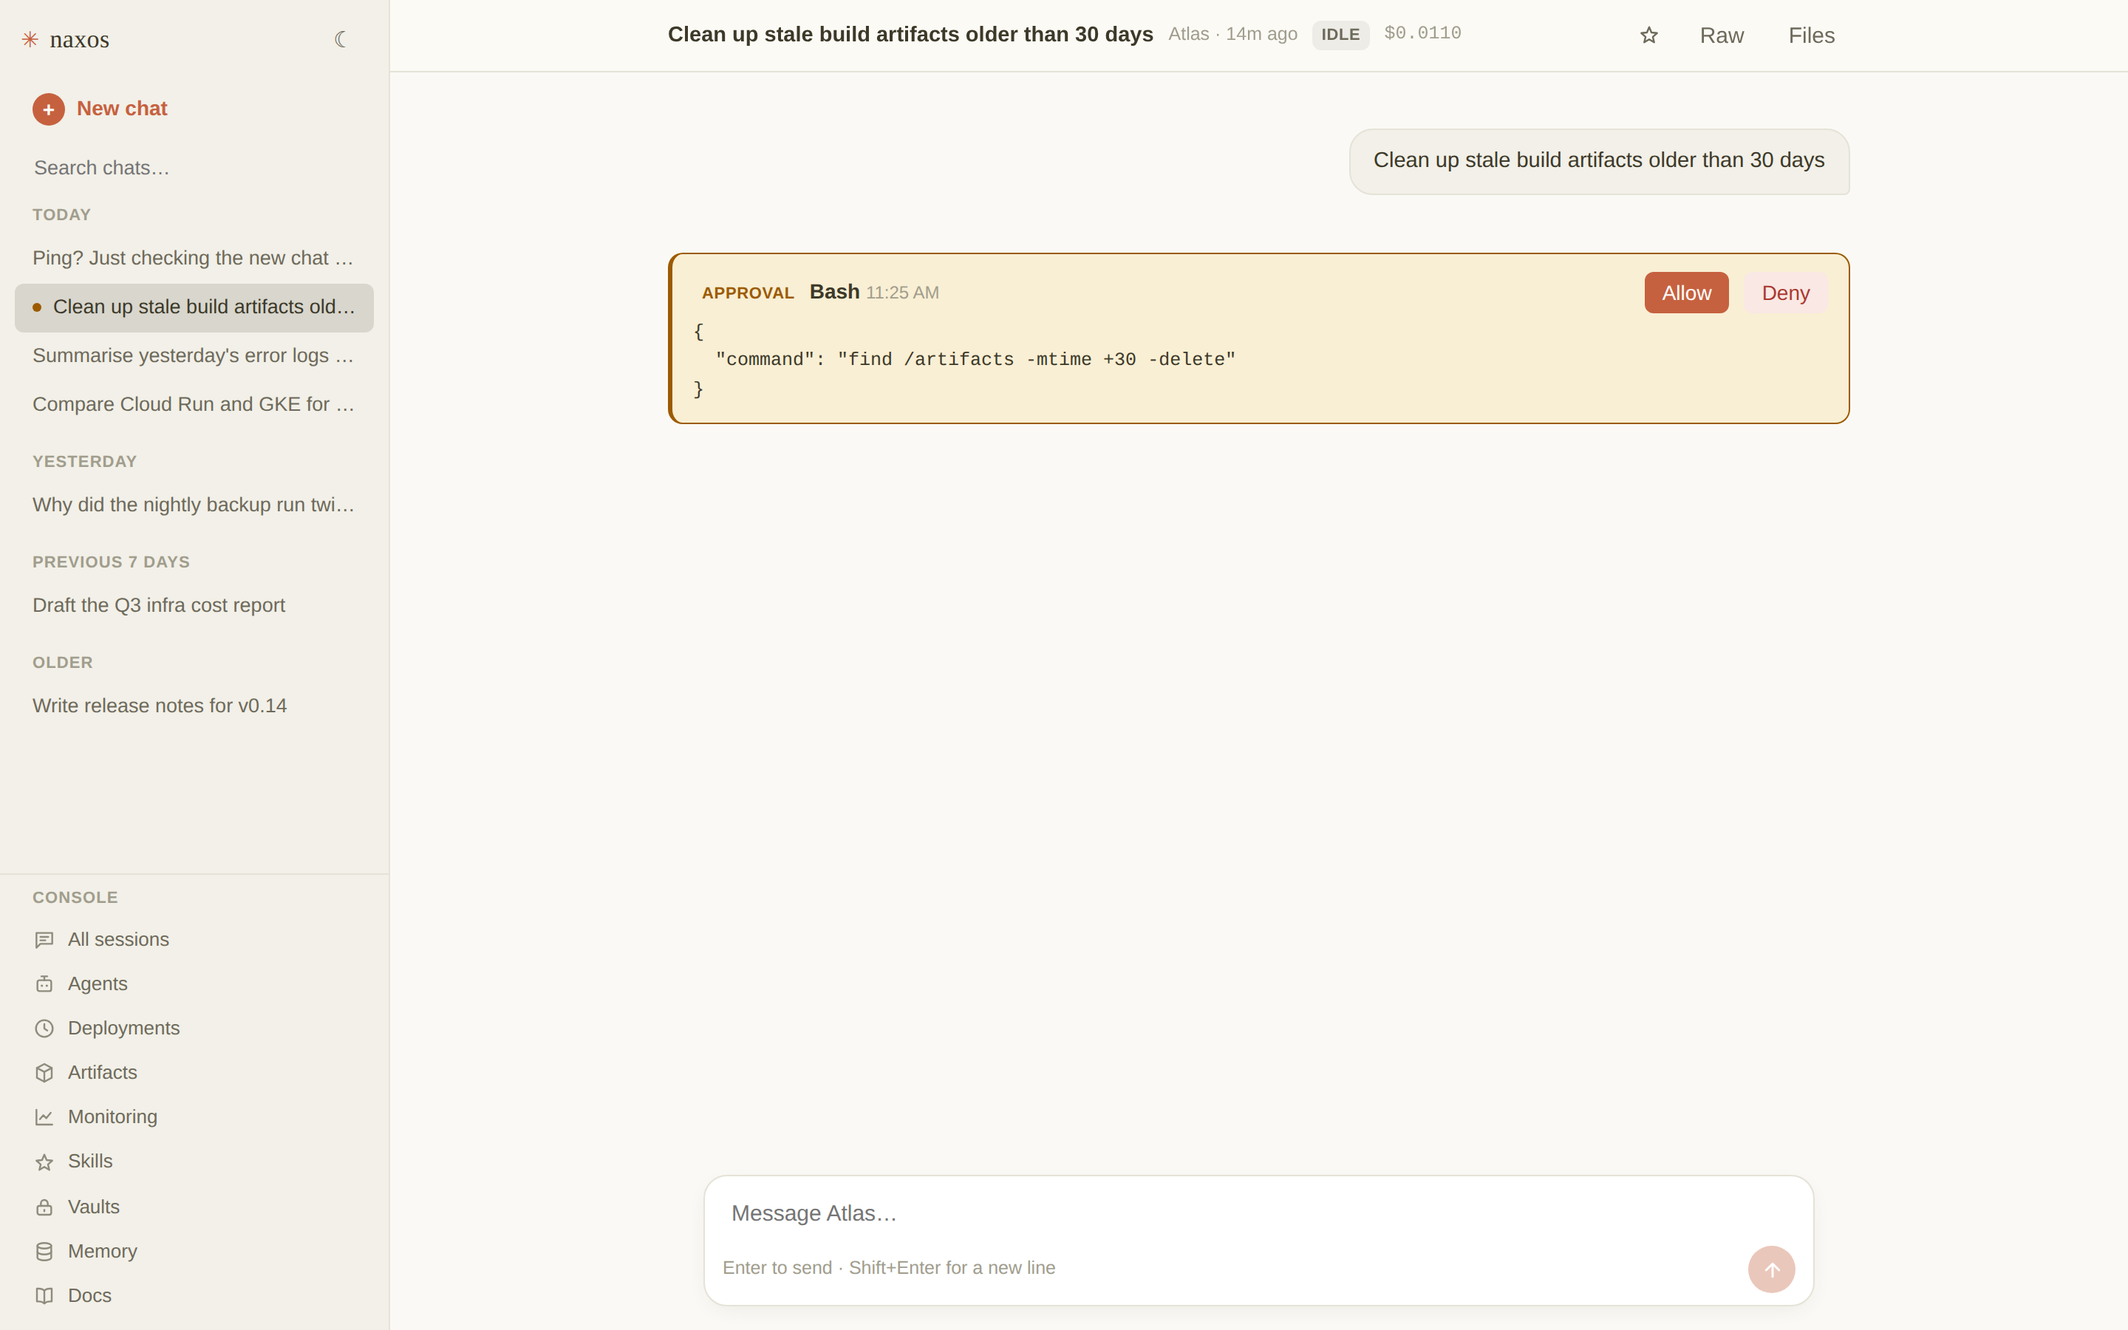
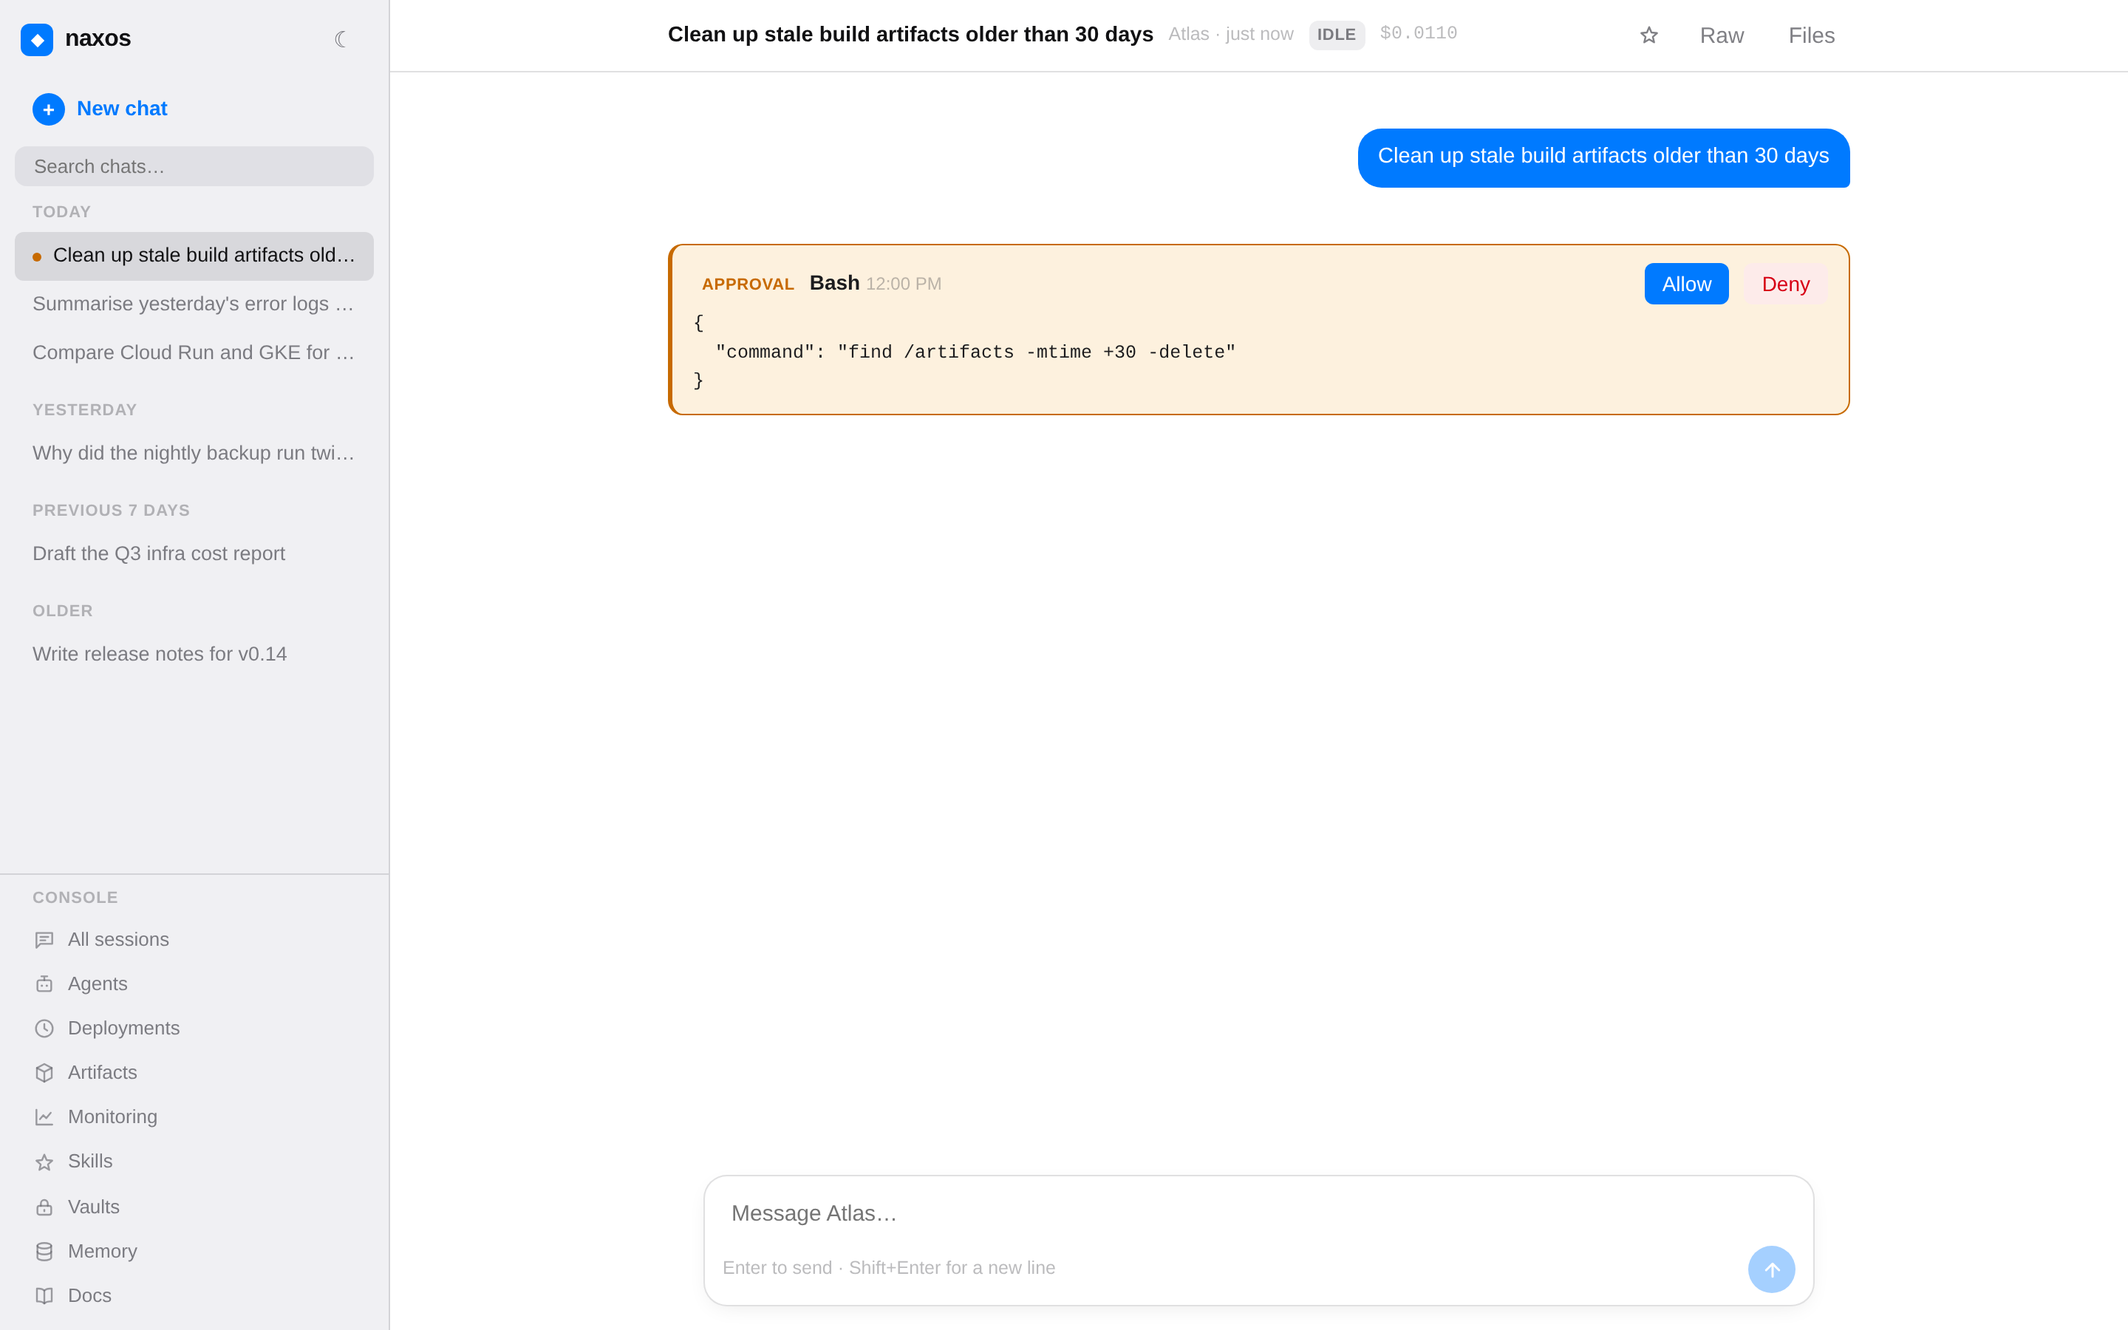
Reskin the chat UI to a macOS-style system theme
Same chat-first structure, different identity: white/window-gray
surfaces with hairline separators, system-blue accent, SF-style sans
at desktop density (serif display dropped), Finder-gray sidebar with a
filled search field, Messages-style blue send bubbles, frosted chat
header, Xcode-flavoured code highlighting, and blue charts. Brand mark
becomes a small app-icon-style rounded square.

README screenshots retaken from the live dev run; docs wording updated
to match.

Claude-Session: https://claude.ai/code/session_01WskPG667rGwJXnSBVkqa2T

diff --git a/ui/app/globals.css b/ui/app/globals.css
@@ -1,37 +1,38 @@
 :root {
   color-scheme: light dark;
-  /* Warm Claude-like palette: ivory / dark-oat surfaces, terracotta accent. */
-  --bg: light-dark(#faf9f5, #262624);
-  --panel: light-dark(#ffffff, #2b2a27);
-  --panel2: light-dark(#f2f0e8, #34332f);
-  --border: light-dark(#e5e2d7, #403e39);
-  --ink: light-dark(#3d3929, #e8e6dd);
-  --text: light-dark(#3d3929, #dedcd3);
-  --muted: light-dark(#6e6a5b, #b3b0a4);
-  --faint: light-dark(#a19d8d, #83817a);
-  --neutral: light-dark(rgba(61, 57, 41, 0.07), rgba(232, 230, 221, 0.08));
-  --neutral-hover: light-dark(rgba(61, 57, 41, 0.14), rgba(232, 230, 221, 0.16));
-  --accent: light-dark(#c6613f, #d97757);
-  --accent-strong: light-dark(#a84e30, #e08a6e);
-  --accent-soft: light-dark(#f6e8e0, #423229);
+  /* macOS-style system palette: white / window-gray surfaces, hairline
+     separators, system-blue accent, SF-style type at desktop density. */
+  --bg: light-dark(#ffffff, #1e1e1e);
+  --panel: light-dark(#ffffff, #262628);
+  --panel2: light-dark(#f2f2f7, #333336);
+  --border: light-dark(rgba(60, 60, 67, 0.16), rgba(255, 255, 255, 0.13));
+  --ink: light-dark(#111113, #f2f2f7);
+  --text: light-dark(#1c1c1e, #e5e5ea);
+  --muted: light-dark(rgba(60, 60, 67, 0.65), rgba(235, 235, 245, 0.62));
+  --faint: light-dark(rgba(60, 60, 67, 0.35), rgba(235, 235, 245, 0.32));
+  --neutral: light-dark(rgba(118, 118, 128, 0.12), rgba(118, 118, 128, 0.24));
+  --neutral-hover: light-dark(rgba(118, 118, 128, 0.2), rgba(118, 118, 128, 0.36));
+  --accent: light-dark(#007aff, #0a84ff);
+  --accent-strong: light-dark(#0062cc, #409cff);
+  --accent-soft: light-dark(#e8f1ff, #1c3252);
   --on-accent: #ffffff;
-  --contrast: light-dark(#3d3929, #e8e6dd);
-  --ok: light-dark(#37725a, #7ec5a2);
-  --ok-soft: light-dark(#e3f0e7, #223d31);
-  --warn: light-dark(#9c5b00, #e0b352);
-  --warn-soft: light-dark(#f9efd4, #3c3320);
-  --danger: light-dark(#ab3830, #ef8a7e);
-  --danger-strong: #c04a3d;
-  --danger-soft: light-dark(#f9e8e4, #442a25);
-  --info: light-dark(#58676f, #a4b2ba);
-  --info-soft: light-dark(#e9edef, #333a3e);
-  --shadow-1: light-dark(rgba(61, 57, 41, 0.08), rgba(0, 0, 0, 0.25));
-  --shadow-2: light-dark(rgba(61, 57, 41, 0.12), rgba(0, 0, 0, 0.35));
-  --shadow-strong: light-dark(rgba(61, 57, 41, 0.3), rgba(0, 0, 0, 0.55));
-  --sans: -apple-system, BlinkMacSystemFont, "Segoe UI", Roboto, "Noto Sans",
-    Ubuntu, "Droid Sans", "Helvetica Neue", sans-serif;
-  --display: "Iowan Old Style", Georgia, "Times New Roman", serif;
-  --serif: var(--display);
+  --contrast: light-dark(#111113, #f2f2f7);
+  --ok: light-dark(#248a3d, #30d158);
+  --ok-soft: light-dark(#e4f4e8, #1f3a28);
+  --warn: light-dark(#c76a00, #ff9f0a);
+  --warn-soft: light-dark(#fdf1de, #43351a);
+  --danger: light-dark(#d70015, #ff453a);
+  --danger-strong: #e0332c;
+  --danger-soft: light-dark(#fdebea, #462421);
+  --info: light-dark(#5856d6, #7d7aff);
+  --info-soft: light-dark(#ecebfb, #2e2d4d);
+  --shadow-1: light-dark(rgba(0, 0, 0, 0.07), rgba(0, 0, 0, 0.3));
+  --shadow-2: light-dark(rgba(0, 0, 0, 0.11), rgba(0, 0, 0, 0.4));
+  --shadow-strong: light-dark(rgba(0, 0, 0, 0.28), rgba(0, 0, 0, 0.6));
+  --sans: -apple-system, BlinkMacSystemFont, "SF Pro Text", "Segoe UI", Roboto,
+    "Noto Sans", Ubuntu, "Helvetica Neue", sans-serif;
+  --display: var(--sans);
+  --serif: var(--sans);
   --mono: ui-monospace, SFMono-Regular, "SF Mono", Menlo, Consolas,
     "Liberation Mono", monospace;
   --radius: 10px;
@@ -60,18 +61,22 @@ body {
 .side {
   width: var(--sidebar-w); flex: none; min-height: 0;
   display: flex; flex-direction: column;
-  background: light-dark(#f2f0e8, #1f1e1c); border-right: 1px solid var(--border);
+  background: light-dark(#f0f0f3, #232325); border-right: 1px solid var(--border);
 }
 .side-head {
   flex: none; display: flex; align-items: center; justify-content: space-between;
   padding: 14px 14px 6px;
 }
 .brand {
-  display: inline-flex; align-items: baseline; gap: 7px;
+  display: inline-flex; align-items: center; gap: 8px;
   color: var(--ink); text-decoration: none;
-  font-family: var(--display); font-size: 17px; letter-spacing: 0.01em;
+  font-size: 16px; font-weight: 700; letter-spacing: -0.02em;
 }
-.brand-mark { color: var(--accent); font-size: 15px; }
+.brand-mark {
+  display: inline-grid; place-items: center; width: 22px; height: 22px; flex: none;
+  background: var(--accent); color: var(--on-accent);
+  border-radius: 6px; font-size: 12px; line-height: 1;
+}
 
 .side-top { flex: none; padding: 8px 10px 4px; display: flex; flex-direction: column; gap: 6px; }
 .new-chat {
@@ -80,18 +85,18 @@ body {
   color: var(--accent); text-decoration: none; font-size: 14px; font-weight: 600;
   transition: background 0.1s;
 }
-.new-chat:hover { background: var(--accent-soft); }
+.new-chat:hover { background: var(--neutral); }
 .new-chat .plus {
   display: inline-grid; place-items: center; width: 22px; height: 22px; flex: none;
   background: var(--accent); color: var(--on-accent); border-radius: 999px;
   font-size: 14px; line-height: 1;
 }
 .side-search {
-  background: transparent; border: 1px solid transparent; box-shadow: none;
-  padding: 6px 12px; font-size: 13.5px;
+  background: var(--neutral); border: 1px solid transparent; box-shadow: none;
+  border-radius: 8px; padding: 5px 12px; font-size: 13px;
 }
-.side-search:hover:not(:focus) { background: var(--neutral); }
-.side-search:focus { background: var(--panel); border-color: var(--border); }
+.side-search:hover:not(:focus) { background: var(--neutral-hover); }
+.side-search:focus { background: var(--panel); border-color: var(--accent); }
 
 .side-scroll { flex: 1; min-height: 0; overflow-y: auto; padding: 4px 10px 10px; }
 .side-group { margin-top: 14px; }
@@ -162,8 +167,7 @@ body {
 
 .page-head { margin-bottom: 24px; }
 .page-head h2 {
-  font-family: var(--display); font-size: 26px; font-weight: 500;
-  letter-spacing: -0.01em; color: var(--ink);
+  font-size: 23px; font-weight: 700; letter-spacing: -0.02em; color: var(--ink);
 }
 .page-head p { color: var(--muted); font-size: 13.5px; max-width: 640px; margin-top: 6px; }
 
@@ -351,8 +355,8 @@ button.chip:hover { border-color: var(--accent); color: var(--accent); }
 
 .chat-head {
   position: sticky; top: 0; z-index: 10; flex: none;
-  background: color-mix(in srgb, var(--bg) 88%, transparent);
-  backdrop-filter: blur(8px);
+  background: color-mix(in srgb, var(--bg) 82%, transparent);
+  backdrop-filter: blur(16px) saturate(180%);
   border-bottom: 1px solid var(--border);
 }
 .chat-head-row {
@@ -371,11 +375,11 @@ button.chip:hover { border-color: var(--accent); color: var(--accent); }
 
 .turn { display: flex; flex-direction: column; gap: 4px; margin: 6px 0; }
 .turn.user { align-items: flex-end; margin-top: 18px; }
+/* Messages-style send bubble. */
 .turn.user .bubble {
-  max-width: min(85%, 640px); background: var(--panel2); color: var(--ink);
-  border: 1px solid var(--border);
-  border-radius: 16px 16px 4px 16px; padding: 10px 16px;
-  white-space: pre-wrap; word-break: break-word; font-size: 14.5px; line-height: 1.6;
+  max-width: min(85%, 640px); background: var(--accent); color: var(--on-accent);
+  border-radius: 16px 16px 4px 16px; padding: 9px 14px;
+  white-space: pre-wrap; word-break: break-word; font-size: 14.5px; line-height: 1.5;
 }
 .turn.agent { max-width: 100%; }
 .turn.agent .md { font-size: 15px; line-height: 1.65; }
@@ -460,10 +464,9 @@ details.tool-call > pre.err { background: var(--danger-soft); color: var(--dange
   align-items: center; justify-content: center; gap: 26px; padding: 48px 24px;
 }
 .greet {
-  font-family: var(--display); font-size: clamp(26px, 4vw, 34px);
-  color: var(--ink); text-align: center; letter-spacing: -0.01em; font-weight: 400;
+  font-size: clamp(24px, 3.2vw, 30px);
+  color: var(--ink); text-align: center; letter-spacing: -0.02em; font-weight: 700;
 }
-.greet .brand-mark { margin-right: 10px; }
 .home .chat-composer { width: min(100%, 720px); }
 .home-hint { color: var(--faint); font-size: 13px; }
 .spinner {
@@ -530,16 +533,17 @@ details.tool-call > pre.err { background: var(--danger-soft); color: var(--dange
 .codeblock:hover .copy-code, .copy-code:focus-visible { opacity: 1; }
 .copy-code:hover { color: var(--accent); border-color: var(--accent); }
 
-.hljs-comment, .hljs-quote { color: var(--faint); font-style: italic; }
+/* Xcode-flavoured token colours, light and dark. */
+.hljs-comment, .hljs-quote { color: light-dark(#5d6c79, #6c7986); font-style: italic; }
 .hljs-keyword, .hljs-selector-tag, .hljs-literal, .hljs-type,
-.hljs-built_in { color: light-dark(#af2e9b, #d097ce); }
+.hljs-built_in { color: light-dark(#9b2393, #fc5fa3); }
 .hljs-string, .hljs-regexp, .hljs-addition,
-.hljs-meta .hljs-string { color: light-dark(#216e4e, #7ee2b8); }
-.hljs-number, .hljs-symbol, .hljs-bullet, .hljs-link { color: light-dark(#a54800, #fbc828); }
+.hljs-meta .hljs-string { color: light-dark(#c41a16, #fc6a5d); }
+.hljs-number, .hljs-symbol, .hljs-bullet, .hljs-link { color: light-dark(#1c00cf, #d0bf69); }
 .hljs-title, .hljs-section, .hljs-name,
-.hljs-selector-id, .hljs-selector-class { color: light-dark(#0055cc, #85b8ff); }
+.hljs-selector-id, .hljs-selector-class { color: light-dark(#326d74, #5dd8ff); }
 .hljs-attr, .hljs-attribute, .hljs-variable,
-.hljs-template-variable, .hljs-params { color: light-dark(#206a83, #8bdbe5); }
+.hljs-template-variable, .hljs-params { color: light-dark(#3900a0, #a167e6); }
 .hljs-meta, .hljs-doctag { color: var(--muted); }
 .hljs-deletion { color: var(--danger); }
 .hljs-emphasis { font-style: italic; }
@@ -663,8 +667,8 @@ details.tool-call > pre.err { background: var(--danger-soft); color: var(--dange
 /* --- monitoring ------------------------------------------------------------ */
 
 :root {
-  --chart-series: light-dark(#c6613f, #d97757);
-  --chart-series-strong: light-dark(#a84e30, #e08a6e);
+  --chart-series: light-dark(#007aff, #0a84ff);
+  --chart-series-strong: light-dark(#0062cc, #409cff);
 }
 
 .refetching { opacity: 0.6; transition: opacity 0.15s; }
@@ -803,8 +807,7 @@ dialog.modal {
 }
 dialog.modal::backdrop { background: rgba(20, 18, 12, 0.4); }
 dialog.modal h3 {
-  font-family: var(--display); font-size: 17px; font-weight: 500;
-  color: var(--ink); margin-bottom: 8px;
+  font-size: 16px; font-weight: 600; color: var(--ink); margin-bottom: 8px;
 }
 dialog.modal p { color: var(--muted); font-size: 13.5px; line-height: 1.55; }
 dialog.modal .row.end { margin-top: 16px; }

diff --git a/docs/pages/index.html b/docs/pages/index.html
@@ -147,7 +147,7 @@
         <tr><td><code>sandbox-runner/</code></td><td><code>claude-agent-sdk</code> harness inside the per-environment Cloud Run Job, plus built-in MCP servers (artifacts / schedules) and skill sync</td></tr>
         <tr><td><code>egress-proxy/</code></td><td>99-line forward proxy that injects credentials into MCP/HTTP traffic</td></tr>
         <tr><td><code>shared/</code></td><td>Pydantic event/config models, ID · hash · path helpers (<code>naxos_shared</code>)</td></tr>
-        <tr><td><code>ui/</code></td><td>Next.js static export. Chat-first, Claude-app-style: a sidebar of conversations and a live chat surface, plus a console area — All sessions / Agents / Deployments / Artifacts / Monitoring / Vaults / Memory / Skills / Docs — served by <code>naxos-api</code></td></tr>
+        <tr><td><code>ui/</code></td><td>Next.js static export. Chat-first with a macOS-style look: a sidebar of conversations and a Messages-like live chat surface, plus a console area — All sessions / Agents / Deployments / Artifacts / Monitoring / Vaults / Memory / Skills / Docs — served by <code>naxos-api</code></td></tr>
         <tr><td><code>terraform/</code></td><td>One root module, GCS state backend. Owns all topology</td></tr>
       </table>
     </div>

diff --git a/docs/pages/design.html b/docs/pages/design.html
@@ -413,7 +413,7 @@ table.api td.d code { font-size: 0.9em; }
     <tr><td>State</td><td>Cloud SQL Postgres <code>db-g1-small</code>, private IP, Direct VPC egress from Cloud Run</td><td>always-on (the one fixed cost)</td><td>—</td></tr>
     <tr><td>Workspaces</td><td>GCS bucket per environment <code>naxos2-sess-{env}</code></td><td>—</td><td>env SA + <code>sa-api</code> only</td></tr>
     <tr><td>Audit</td><td>BigQuery <code>audit.runs</code> + <code>audit.tool_calls</code>, written <strong>only by the control plane</strong></td><td>—</td><td><code>sa-api</code></td></tr>
-    <tr><td>UI — chat-first (Claude-app-style sidebar of conversations + live chat with inline approvals) with a console area: all sessions, agents, deployments, artifacts, monitoring, vaults, memory, skills, kill switch</td><td>Next.js static export baked into the api image</td><td>—</td><td>—</td></tr>
+    <tr><td>UI — chat-first, macOS-style (sidebar of conversations + Messages-like live chat with inline approvals) with a console area: all sessions, agents, deployments, artifacts, monitoring, vaults, memory, skills, kill switch</td><td>Next.js static export baked into the api image</td><td>—</td><td>—</td></tr>
   </tbody>
 </table>
 </div>

diff --git a/ui/app/page.tsx b/ui/app/page.tsx
@@ -258,7 +258,11 @@ export default function Page() {
       <aside className={`side ${sideOpen ? "open" : ""}`}>
         <div className="side-head">
           <a className="brand" href="#new">
-            <span className="brand-mark" aria-hidden>✳</span>
+            <span className="brand-mark" aria-hidden>
+              <svg width="11" height="11" viewBox="0 0 24 24" fill="currentColor">
+                <path d="M12 2 22 12 12 22 2 12z" />
+              </svg>
+            </span>
             <span>naxos</span>
           </a>
           <button className="icon-btn" onClick={toggleTheme} aria-label="toggle dark mode">

diff --git a/ui/components/chat-home.tsx b/ui/components/chat-home.tsx
@@ -55,10 +55,7 @@ export default function ChatHome({ agents }: { agents: Agent[] }) {
 
   return (
     <div className="home">
-      <h1 className="greet">
-        <span className="brand-mark" aria-hidden>✳</span>
-        {greeting()}
-      </h1>
+      <h1 className="greet">{greeting()}</h1>
       {enabled.length === 0 ? (
         <p className="muted">
           no agents yet — <a className="mono" href="#agents">create one in the console</a> to start

diff --git a/README.md b/README.md
@@ -2,7 +2,7 @@
 
 A Google Cloud implementation of Claude Managed Agents: versioned agents, isolated per-session sandboxes on Cloud Run, an event-sourced session API with SSE streaming — including token-level live text while the agent is typing — approval gates, vaults with an egress credential proxy, scheduled deployments, and full execution-level audit — inside a single GCP project with Vertex AI as the only model exit.
 
-The UI is chat-first: a Claude-app-style surface (sidebar of auto-titled conversations, live streaming replies, markdown with syntax-highlighted copyable code, inline tool-approval cards) on top of a console for operating the platform (all sessions, agents, deployments, monitoring, skills, vaults, memory).
+The UI is chat-first with a native macOS-style look: a sidebar of auto-titled conversations, Messages-style chat with live streaming replies, markdown with syntax-highlighted copyable code, and inline tool-approval cards — on top of a console for operating the platform (all sessions, agents, deployments, monitoring, skills, vaults, memory).
 
 - Docs site: [yoichiojima-2.github.io/naxos](https://yoichiojima-2.github.io/naxos/)
 - Design: [`docs/design.md`](docs/design.md)

diff --git a/docs/design.md b/docs/design.md
@@ -31,7 +31,7 @@ Fixed design decisions:
 | State | Cloud SQL Postgres `db-g1-small`, private IP, Direct VPC egress from Cloud Run | always-on (the one fixed cost) | — |
 | Workspaces | GCS bucket per environment `naxos2-sess-{env}` | — | env SA + `sa-api` only |
 | Audit | BigQuery `audit.runs` + `audit.tool_calls`, written **only by the control plane** | — | `sa-api` |
-| UI — chat-first (Claude-app-style sidebar of conversations + live chat with inline approvals) with a console area: all sessions, agents, deployments, artifacts, monitoring, vaults, memory, skills, kill switch | Next.js static export baked into the api image | — | — |
+| UI — chat-first, macOS-style (sidebar of conversations + Messages-like live chat with inline approvals) with a console area: all sessions, agents, deployments, artifacts, monitoring, vaults, memory, skills, kill switch | Next.js static export baked into the api image | — | — |
 
 The **environment is the tenant/isolation boundary** (as in CMA). Agents are cheap DB rows; environments carry the service account, the sandbox Job, and the session bucket, fanned out by Terraform from `environments.json`. Many agents can share an environment.
 
